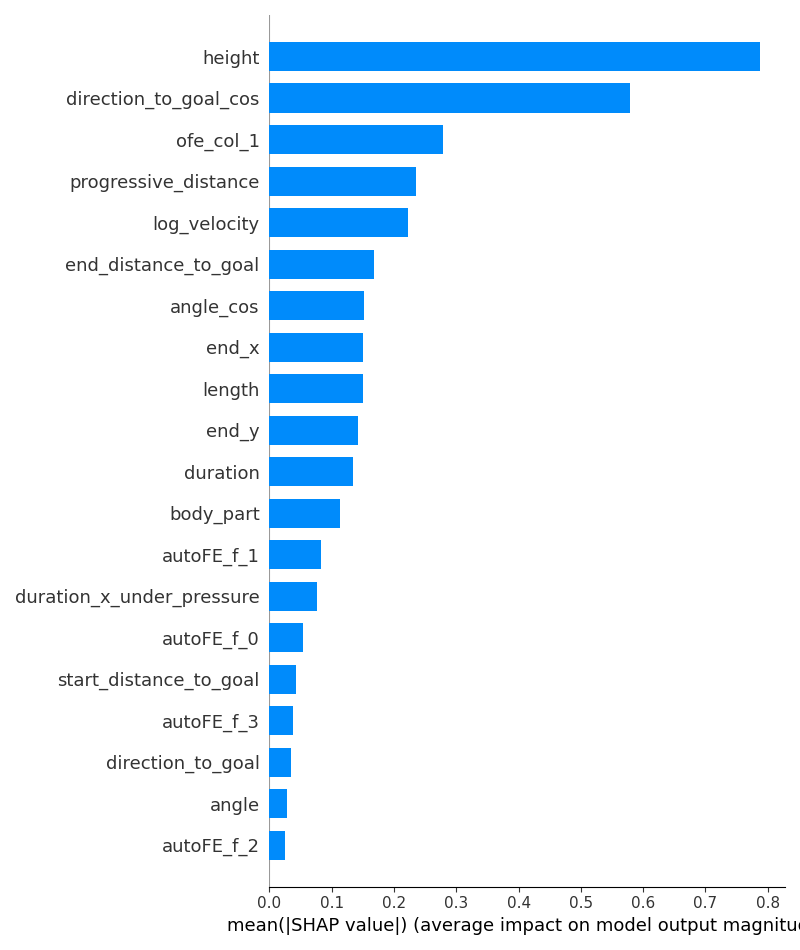
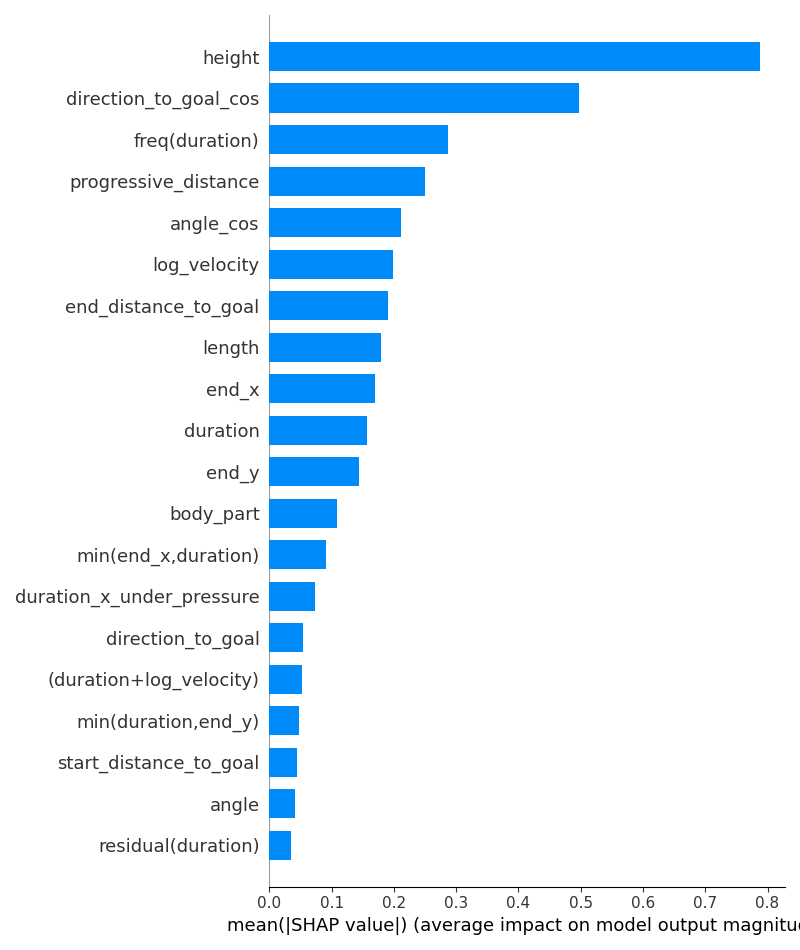
Update markdown

diff --git a/_posts/2026-05-24-wc2018-part2.md b/_posts/2026-05-24-wc2018-part2.md
@@ -124,16 +124,16 @@ The cool thing about OpenFE is that each feature is stored as a computational ex
 In the following section, I describe the choices related to the training process. These decisions aim to ensure reproducible experiments, fair model comparisons and reliable estimations of generalisation performance.
 - **Hyperparameter tuning**: I use `optuna` for hyperparameter tuning, because it is what I am familiar with. 
 - **MLOps**: I will use MLFlow for experiment tracking and artifact management. Each training run logs parameters, metrics and model artifacts, while final models are logged to the model registry.
-- **Training strategy**: Three types of experiments are performed:
+- **Training strategy**: The training process consists of three stages:
     - Two-layer nested CV for estimating generaliation: A two-level nested K-fold cross-validation loop is used to get an estimate of the generalisation performance, while avoiding data leakage and preventing performance evaluation on the same data that is used for hyperparameter estimation.
-    - Hyperparameter tuning: K-fold cross-validation is used within the training data to evaluate candidate hyperparameter configurations.
+    - Hyperparameter tuning: K-fold cross-validation is used within the training data to evaluate candidate hyperparameter configurations. A validation set is still reserved for plotting and early stopping.
     - Training final model on full training set: Finally, we use the hyperparameters found in step 2 to train a final model on the full training set.
 
 ### Evaluation 
-As mentioned previously, the France - Argentina passes are used as a hold-out evaluation set for the models. Due to the class imbalance in the dataset, overall accuracy is not a reliable evaluation metric. Instead, the focus is on evaluating how well the model distinguishes between classes and how well its predicted probabilities are calibrated. I consider the following:
+As mentioned earlier, the France - Argentina passes are used as a hold-out evaluation set for the models. Due to the class imbalance in the dataset, overall accuracy is not a reliable evaluation metric. Instead, the focus is on evaluating how well the model distinguishes between classes and how well its predicted probabilities are calibrated. I consider the following:
 
 - **Discrimination performance**: Measured using ROC-AUC, which evaluates the model's ability to distinguish between successful and unsuccessful passes across across classification thresholds. 
-- **Calibration quality**: Assessed using reliability diagrams, which compare predicted probabilities against observed probability frequencies. In addition, expected calibration error (ECE) is used as a scalar summary of the calibration.
+- **Calibration quality**: Assessed using reliability diagrams, which compare predicted probabilities against observed probability frequencies.
 - **Classification metrics**: Measured using scalar metrics such as NLL, F1, recall, precision and accuracy. 
 
 ## Comparison of model performance across experiment setups
@@ -187,23 +187,38 @@ Based on the two-layer nested cross-validation experiment, we can summarise the 
 - CatBoost has slightly better performance using default parameters, but is also by far the slowest model to train.
 - LGBM offers the perfect combination of low training time and good performance wiht both default and tuned parameters.
 
-## Training
-I also inspect calibration and feature importance plots for the best-performing setup.
+## Hyperparameter tuning and training final models
 
+For each model, I use `optuna` to search over a small hyperparameter space. Candidate configurations are evaluated with K-fold cross-validation on the training data, while the validation set from each outer fold is kept separate and used only for early stopping and model evaluation, such as plotting loss curves, calibration curves and feature importance..
+
+| Purpose | CatBoost | LightGBM | XGBoost |
+|---------|----------|----------|---------|
+| Number of trees | `iterations` | `n_estimators` | `n_estimators` |
+| Tree complexity | `depth` | `num_leaves` | `max_depth` |
+| Step size | `learning_rate` | `learning_rate` | `learning_rate` |
+| Row subsampling | - | `subsample` | `subsample` |
+| Feature subsampling | - | `colsample_bytree` | `colsample_bytree` |
+| L1 regularisation | - | `reg_alpha` | `reg_alpha` |
+| L2 regularisation | `reg_lambda` | `reg_lambda` | `reg_lambda` |
+
+The search spaces are intentionally conservative: they cover the main parameters controlling model size, learning dynamics, subsampling and regularisation, without making the comparison depend on a very large tuning run. The tunable parameters were selected using the hyperparameter importance feature in the `optuna` package based on an initial study. Note that the CatBoost has fewer tunable parameters, as the equivalent hyperparameters do not exist for [CatBoost](https://catboost.ai/docs/en/concepts/parameter-tuning).
+
+Below is the loss curve for the LightGBM model. The training loss decreases steadily as more boosting rounds are added, while the validation loss initially improves before flattening out. Early stopping is used to stop training once the validation loss no longer improves, reducing the risk of overfitting while keeping the final model compact.
 <div class="col-sm mt-3 mt-md-0">
   <div style="max-width: 100%; margin: 0 auto;">
     {% include figure.liquid 
         loading="eager"
        avoid_scaling=true
-       url="/assets/img/wc2018-part-2/calibration_curve.png" 
+       url="/assets/img/wc2018-part-2/lightgbm_loss_curve.png" 
         class="img-fluid rounded z-depth-1"
     %}
   </div>
 </div>
 <div class="caption">
-    Calibration curve showing how closely predicted probabilities match observed outcomes. A curve near the diagonal indicates well-calibrated uncertainty estimates.
+    Training and validation losses for LightGBM during hyperparameter tuning. Training is stopped early when the validation loss does not improve for $N=20$ boosting rounds, helping to prevent overfitting.
 </div>
 
+The feature importance plot gives a sanity check of what the model has learned. The most influential variables are related to the physical properties of the pass and its direction, with `height`, `direction_to_goal_cos`, `progressive_distance`, `log_velocity`, and the end location among the most important features. This is reassuring, since these variables describe whether a pass is difficult to execute, whether it moves the ball into a more dangerous area, and where on the pitch it ends up. The engineered OpenFE features also appear in the ranking, but they do not dominate the model, suggesting that they add useful extra signal without replacing the core football-related variables.
 <div class="col-sm mt-3 mt-md-0">
   <div style="max-width: 100%; margin: 0 auto;">
     {% include figure.liquid 
@@ -215,30 +230,39 @@ I also inspect calibration and feature importance plots for the best-performing 
   </div>
 </div>
 <div class="caption">
-    Feature importance plot ranking the input variables by their contribution to the model. This helps identify which engineered and raw features drive predictions most strongly.
+    SHAP-based feature importance for the LightGBM model, measured as mean absolute impact on the model output.
 </div>
 
+Lastly, we consider the calibration of the predicted probabilities. This is important because the model is not only used to classify passes as completed or incomplete, but also to estimate how likely each pass is to be completed. The calibration curve stays close to the diagonal for most probability ranges, which suggests that the predicted probabilities are reasonably reliable. There is some deviation at the lower end, where the model appears slightly overconfident for the most difficult passes, but overall the curve indicates that the probabilities can be interpreted meaningfully.
 <div class="col-sm mt-3 mt-md-0">
   <div style="max-width: 100%; margin: 0 auto;">
     {% include figure.liquid 
         loading="eager"
        avoid_scaling=true
-       url="/assets/img/wc2018-part-2/parameter_importance.png" 
+       url="/assets/img/wc2018-part-2/calibration_curve.png" 
         class="img-fluid rounded z-depth-1"
     %}
   </div>
 </div>
 <div class="caption">
-    Parameter importance plot showing which hyperparameters have the largest impact on validation performance. This is useful for understanding where tuning matters most.
+    Calibration curve for the LightGBM model, comparing mean predicted pass-completion probabilities with observed completion rates.
 </div>
 
+
 ## Results
+I evaluate the final trained models on the hold-out test set containing the passes from the France - Argentina game. The results are shown in the table below:
 
 | Model    | Accuracy | F1 Score | NLL    | Precision | Recall | ROC AUC |
 |----------|---------:|---------:|-------:|----------:|-------:|--------:|
 | XGBoost  | 0.902    | 0.942    | 0.2404 | 0.919     | 0.966  | 0.934   |
 | LightGBM | **0.913**| **0.949**| 0.2397 | **0.923** | **0.977** | 0.932 |
 | CatBoost | 0.907    | 0.946    | **0.2390** | 0.918 | 0.975 | **0.935** |
+
+Overall, the three models perform very similarly on the hold-out match. LightGBM achieves the best accuracy, F1 score, precision and recall, which means it gives the strongest classification performance when using a fixed decision threshold. This is consistent with the nested cross-validation results, where LightGBM offered a strong balance between predictive performance and training time.
+
+CatBoost has the lowest negative log-likelihood and the highest ROC-AUC. This suggests that even though it does not produce the best thresholded classifications, its probability estimates and ranking of passes are slightly better. For this task, that distinction matters: the model is mainly used to estimate the probability that a pass is completed, not just to assign a binary label.
+
+XGBoost performs slightly worse than LightGBM and CatBoost across most metrics, but the gap is small after feature engineering and hyperparameter tuning. Taken together, the results suggest that all three gradient-boosted tree models are viable for this problem, with LightGBM being the most practical choice due to its combination of strong performance and faster training time.
 
 ## Prediction on test set
 Let us start by evaluating all passes in the test set and plot them according to their difficulty.
@@ -285,6 +309,7 @@ P(\text{goal from full sequence}) &= P(\text{goal | shot occurs}) \cdot P(\text{
 &= 0.0113
 \end{aligned}
 $$
+
 This corresponds ot an overall probability of 1.13%.
 
 ## Conclusion
@@ -299,4 +324,4 @@ For the second question, we refer back to the final plot. Although Lucas Hernán
 
 I also managed to learn a lot more about the managing the mull ML lifecycle from EDA to deployment, feature engineering and evaluating machine learning models using leakage-free cross-validation setups.  
 
-Thank you for reading until this part.
+Thank you for reading my blog post.
